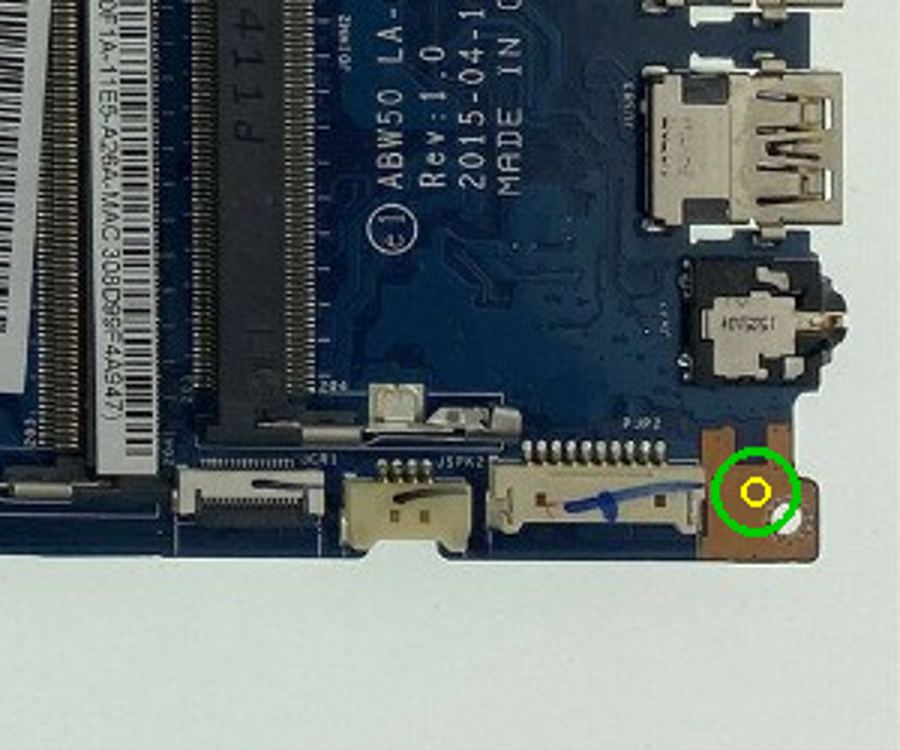
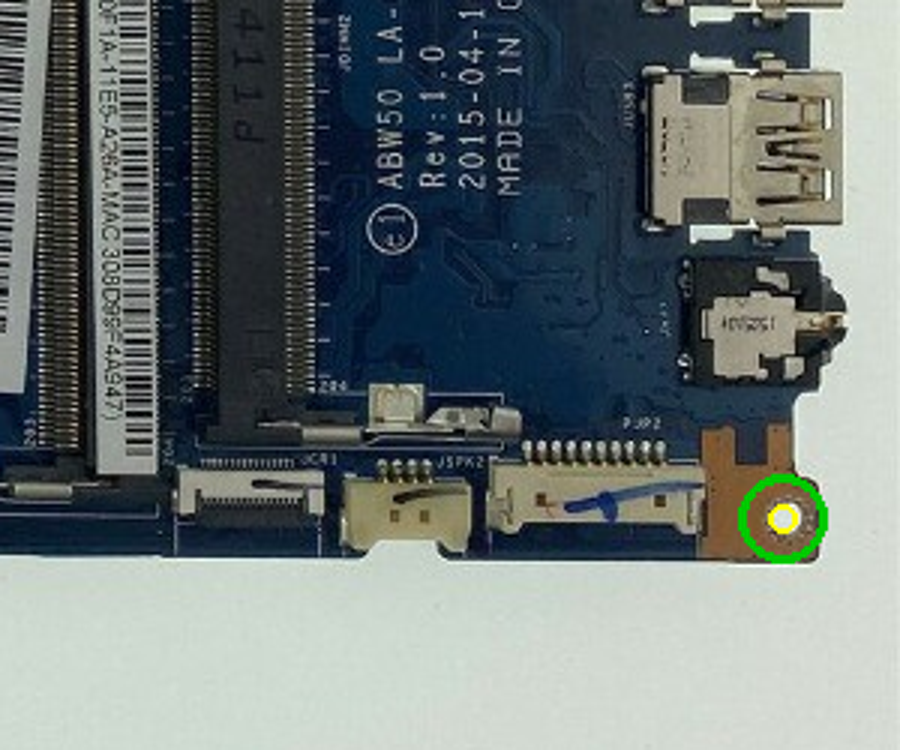
Center corner standoff on the tab's screw hole
Claude-Session: https://claude.ai/code/session_01ATfCQK4oZCKBebaqGdUJZt

Changed region(s): [[0.7778, 0.5827, 0.9333, 0.7667]]

diff --git a/make_case.py b/make_case.py
@@ -35,7 +35,7 @@ MOUNT_HOLES_PX = [
     (370, 242), (455, 247), (793, 308), (905, 458),
     (821, 309), (103, 595), (238, 635), (150, 697), (85, 767),
     (383, 768), (417, 716), (588, 719),
-    (952, 764),   # bottom-right corner tab
+    (961, 773),   # bottom-right corner tab
 ]
 
 # Rear-panel I/O on the right edge: (name, y_top_px, y_bottom_px, height_mm)
